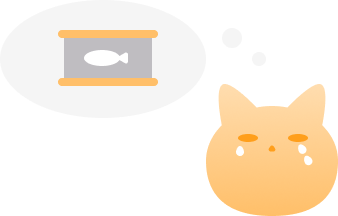
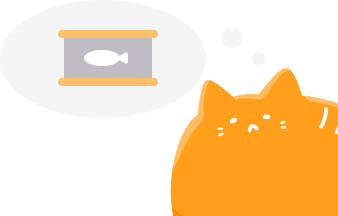
add splash screen

Changed region(s): [[0.503, 0.3056, 1.0, 1.0]]

diff --git a/src/pages/Home/Home.tsx b/src/pages/Home/Home.tsx
@@ -17,6 +17,7 @@ import { getCats } from 'redux/cats/slice';
 import { unwrapResult } from '@reduxjs/toolkit';
 import { useState } from 'react';
 import { ExerciseModal } from 'components/Exercise-Modal/Exercise-Modal';
+import RNBootSplash from 'react-native-bootsplash';
 
 export const Home: React.FC<HomeProps> = props => {
   const currentDate = useRootSelector(selectDiaryDate);
@@ -29,6 +30,7 @@ export const Home: React.FC<HomeProps> = props => {
 
   useEffect(() => {
     dispatch(getCats()).then(result => {
+      RNBootSplash.hide({ fade: true });
       const _cats = unwrapResult(result);
       if (_cats.length) {
         dispatch(getCurrentDiary({ catId: _cats[0].id, date: new Date() }));

diff --git a/android/app/src/main/java/com/myfatcat/MainActivity.java b/android/app/src/main/java/com/myfatcat/MainActivity.java
@@ -1,6 +1,7 @@
 package com.myfatcat;
-
+import android.os.Bundle;
 import com.facebook.react.ReactActivity;
+import com.zoontek.rnbootsplash.RNBootSplash;
 
 public class MainActivity extends ReactActivity {
 
@@ -11,5 +12,11 @@ public class MainActivity extends ReactActivity {
   @Override
   protected String getMainComponentName() {
     return "MyFatCat";
+  }
+
+  @Override
+  protected void onCreate(Bundle savedInstanceState) {
+    super.onCreate(savedInstanceState);
+    RNBootSplash.init(R.drawable.bootsplash, MainActivity.this);
   }
 }
